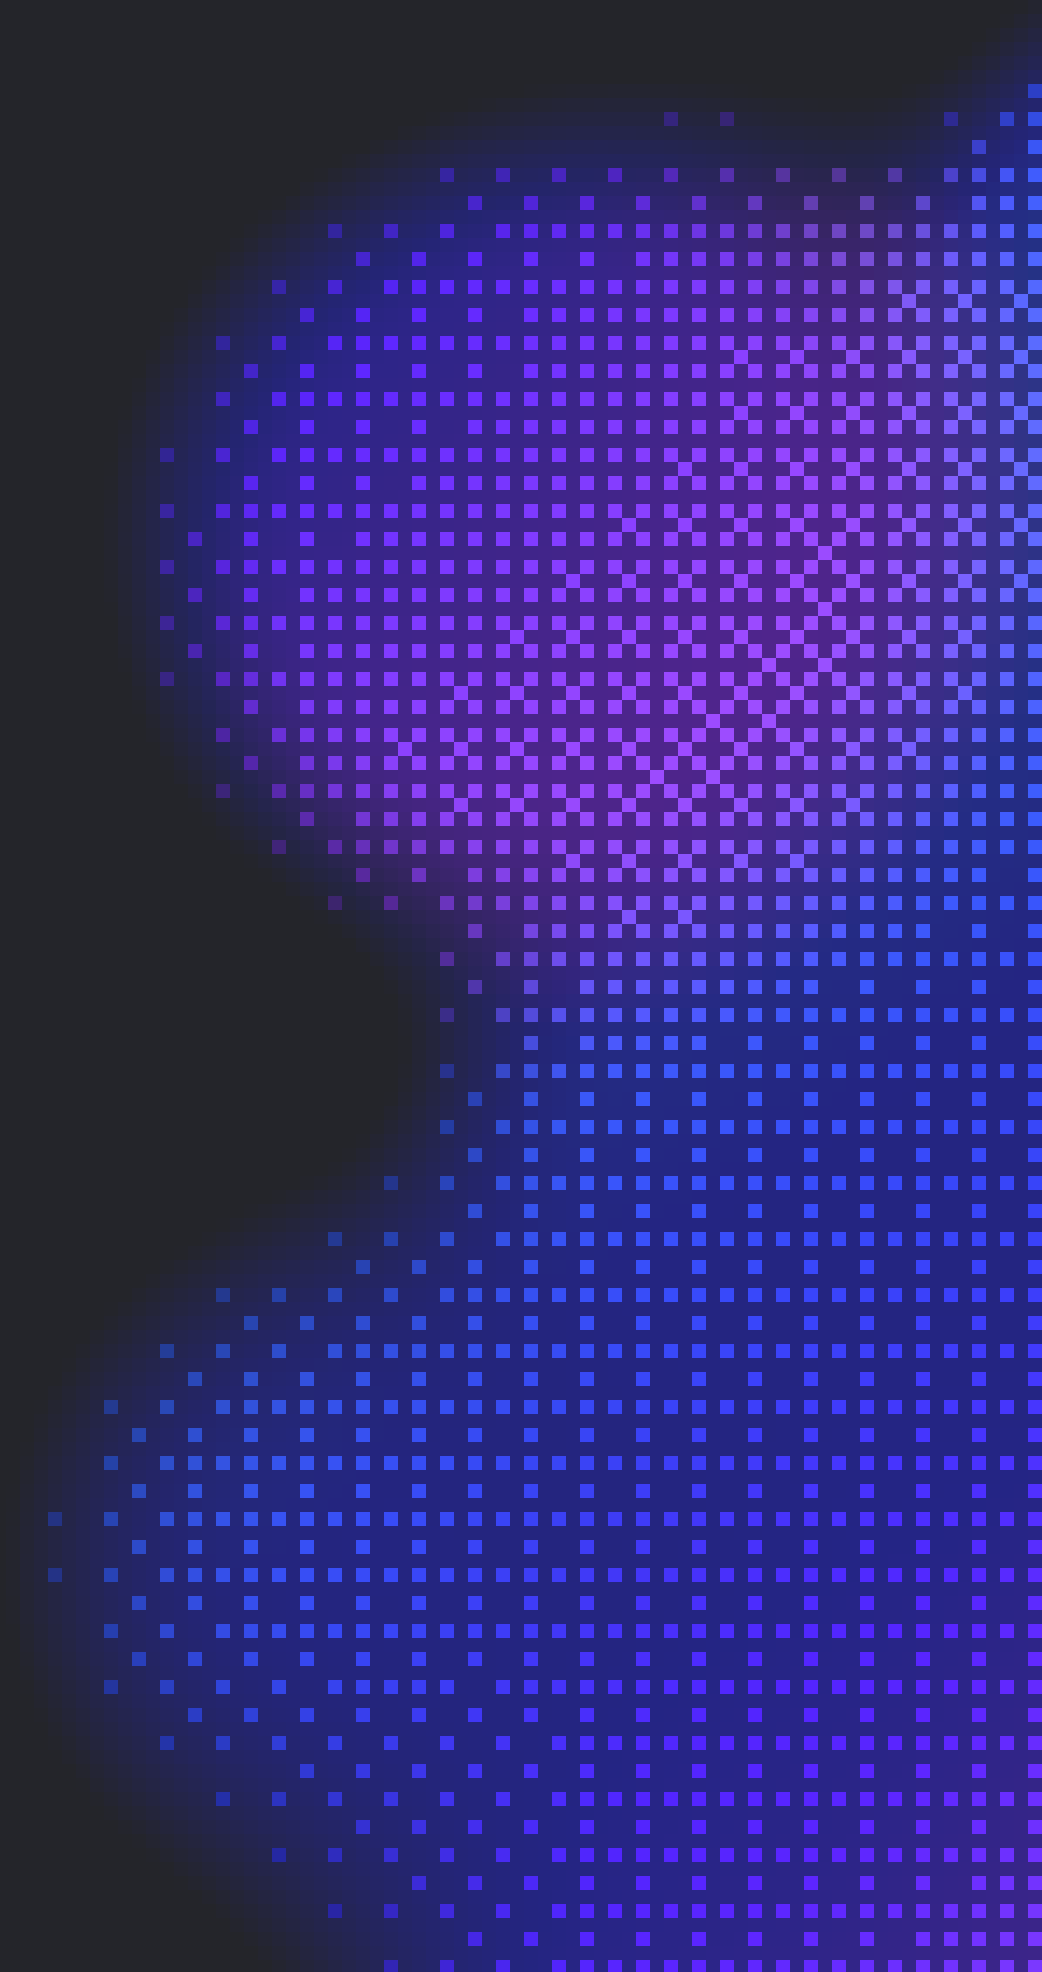
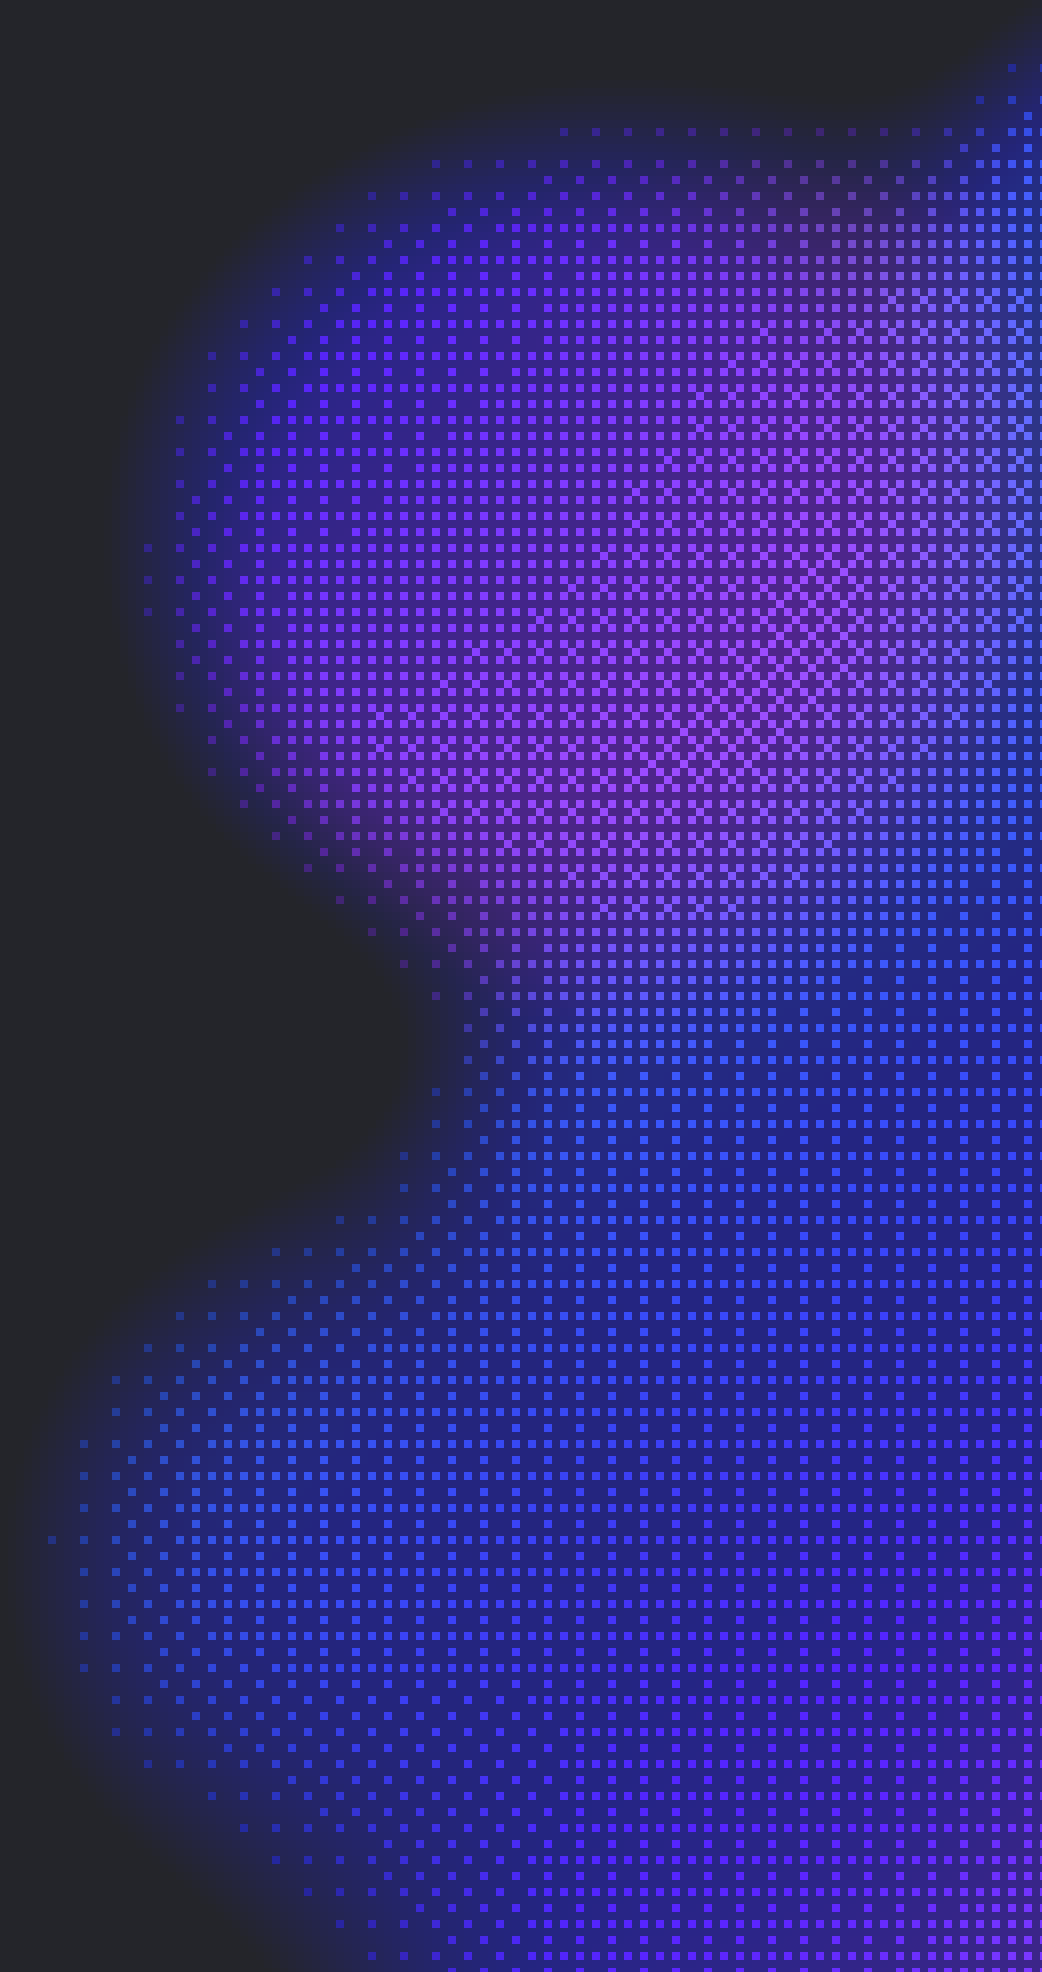
feat(web): Westworld threads carry the blob dither on both edges with finer dots
Drop the Figma glow strip on the left and paint the blob dither there too:
Noey's Shaders design 4737833 as drawn on the left, mirrored on the right,
with the Dither's pixel size taken from 14 to 8. Both strips are rendered
with the real WebGPU library, lightened onto the #24252a card and cropped
to the reach of the blobs (65 KB and 56 KB, truecolour), so the stage stays
a static paint that scales with the card height.

Changed region(s): [[0.0921, 0.0309, 1.0, 1.0], [0.0307, 0.7733, 0.0614, 0.8043]]

diff --git a/apps/web/src/theme.custom.westworld.css b/apps/web/src/theme.custom.westworld.css
@@ -70,28 +70,19 @@
 /* Stage fill and artwork — one per state, on the card's two pseudo-elements,
    both at z-index -1 inside the isolated card.
 
-   ::before is the started thread (Figma 434:14898): a #24252a card, a step
-   below the #26272c surface, with a violet dither ("justdither4", layer
-   434:14900) glowing along its left edge and a 50px-blurred #26272c scrim
-   (435:15426) covering everything from about 60px in, so the dots read at
-   the edge and are gone by 170px. The frame's #19191b fill never shows; what
-   the scrim leaves is #24252a, so that is the card. The asset is the frame's
-   two layers composited over that card and cropped to the 176px where the
-   scrim still falls off, at 2×, so one `left top / auto 100%` layer lands
-   the same glow at any card height (width 18% of the height) and meets the
-   flat colour with no seam. The scrim is applied as a smooth, monotone
-   per-column ramp and the strip stays truecolour: a 256-colour palette or
-   the export's 8-bit alpha both print the falloff as vertical bands.
-
-   The right edge carries a blob dither (Noey's Shaders design 4737833
-   mirrored, x → 1 − x): four static Blobs in #2e37e6→#1877f2 and
-   #a644fc→#5218f2 under a 14px source-colour Dither at threshold 0.7,
-   spread 0.5. Rendered with the real WebGPU library in headful Chrome at
-   2× on a transparent base and lightened onto the card colour — the
-   dither's dark cells are black, so a normal composite would smear black
-   over the card — then cropped to the 521px the blobs reach. It is a
-   second `right top / auto 100%` layer, so both edges scale with the card
-   height and the middle stays the flat colour.
+   ::before is the started thread: a #24252a card, a step below the #26272c
+   surface, with a blob dither rising from both side edges — Noey's Shaders
+   design 4737833 (four static Blobs in #2e37e6→#1877f2 and #a644fc→#5218f2
+   under an 8px source-colour Dither, threshold 0.7, spread 0.5) as drawn
+   on the left and mirrored (x → 1 − x) on the right; the Blob shapes depend
+   on their position, so the two sides differ. Each side was rendered with
+   the real WebGPU library in headful Chrome at 2× on a transparent base and
+   lightened onto the card colour — the Dither's dark cells are black, so a
+   normal composite would smear black over the card — then cropped to the
+   520px / 521px the blobs reach. They paint as `left top` and `right top`
+   layers at `auto 100%`, so both scale with the card height and the middle
+   stays the flat colour. Truecolour on purpose: a 256-colour palette bands
+   the glow around the dots.
 
    ::after is the new-agent draft (Figma 416:8420, layer 421:12528,
    "doloresbluedither4"): the blue portrait at full strength under a
@@ -113,8 +104,8 @@
 
    westworld-hero.png is the Figma export quantized to 256 colours (octree),
    171 KB against 1.3 MB (no channel more than 14 levels off);
-   westworld-thread.png is the 352×1972 left strip, truecolour, 134 KB;
-   westworld-thread-right.png the 1042×1972 blob strip, truecolour, 29 KB. */
+   westworld-thread.png is the 1040×1972 left blob strip, truecolour, 65 KB;
+   westworld-thread-right.png the 1042×1972 right one, 56 KB. */
 :root[data-fork="noahhendrickson-t3code"].dark[data-fork-theme="cool-dark"]
   [data-chat-workspace-drop-target="true"]::before {
   content: "";

diff --git a/apps/web/src/__fork_guards__/forkCoolDarkTheme.test.ts b/apps/web/src/__fork_guards__/forkCoolDarkTheme.test.ts
@@ -336,10 +336,10 @@ describe("fork guard: fork-cool-dark-theme", () => {
     expect(blockFor(theme, COOL_STAGE)).toContain("--fork-pill-border: #333333");
   });
 
-  it("paints the dark card with the violet edge glow behind started threads", () => {
-    // The ::before is the started-thread fill (Figma 434:14898): the #24252a
-    // card with the scrimmed dither strip (layers 434:14900 + 435:15426)
-    // anchored to its left edge. The wrapper it paints on must already be
+  it("paints the dark card with the blob dither on both edges behind started threads", () => {
+    // The ::before is the started-thread fill: the #24252a card with the two
+    // blob-dither strips (Shaders design 4737833, as drawn and mirrored)
+    // anchored to its left and right edges. The wrapper it paints on must already be
     // positioned in ChatView, and must be isolated so z-index -1 stays above
     // the root fill.
     const chatView = readSibling("../components/ChatView.tsx");

diff --git a/.fork/notes/RELEASE-NOTES-PENDING.md b/.fork/notes/RELEASE-NOTES-PENDING.md
@@ -4,4 +4,4 @@ Lines to fold into the next fork release's notes, then delete from here.
 Each entry names the sync or PR that created the obligation.
 
 - fix(web): background preview guests no longer show through the Glass sidebar while an agent drives them (fork-glass-preview-parking, fixes a v0.1.18 regression from upstream #9001)
-- feat(web): Cool Dark is now Westworld and Cool Darker is now Glass. Westworld follows Figma t3-fork 416:7408 — one #26272c surface for sidebar, header and stage, the chat column framed as an 8px-inset stage card, a blue dither portrait under a blue wash behind a dark-glass composer on a new agent, crossfading to a #24252a card with a violet dither glow along its left edge and a blue-violet blob dither along its right behind a white-glass composer once the thread starts, with the working status and the sidebar mark in Westworld's blue. Stored preferences keep their old ids, so nothing resets (fork-cool-dark-theme, fork-cool-darker-theme)
+- feat(web): Cool Dark is now Westworld and Cool Darker is now Glass. Westworld follows Figma t3-fork 416:7408 — one #26272c surface for sidebar, header and stage, the chat column framed as an 8px-inset stage card, a blue dither portrait under a blue wash behind a dark-glass composer on a new agent, crossfading to a #24252a card with a blue-violet blob dither rising from both side edges behind a white-glass composer once the thread starts, with the working status and the sidebar mark in Westworld's blue. Stored preferences keep their old ids, so nothing resets (fork-cool-dark-theme, fork-cool-darker-theme)
